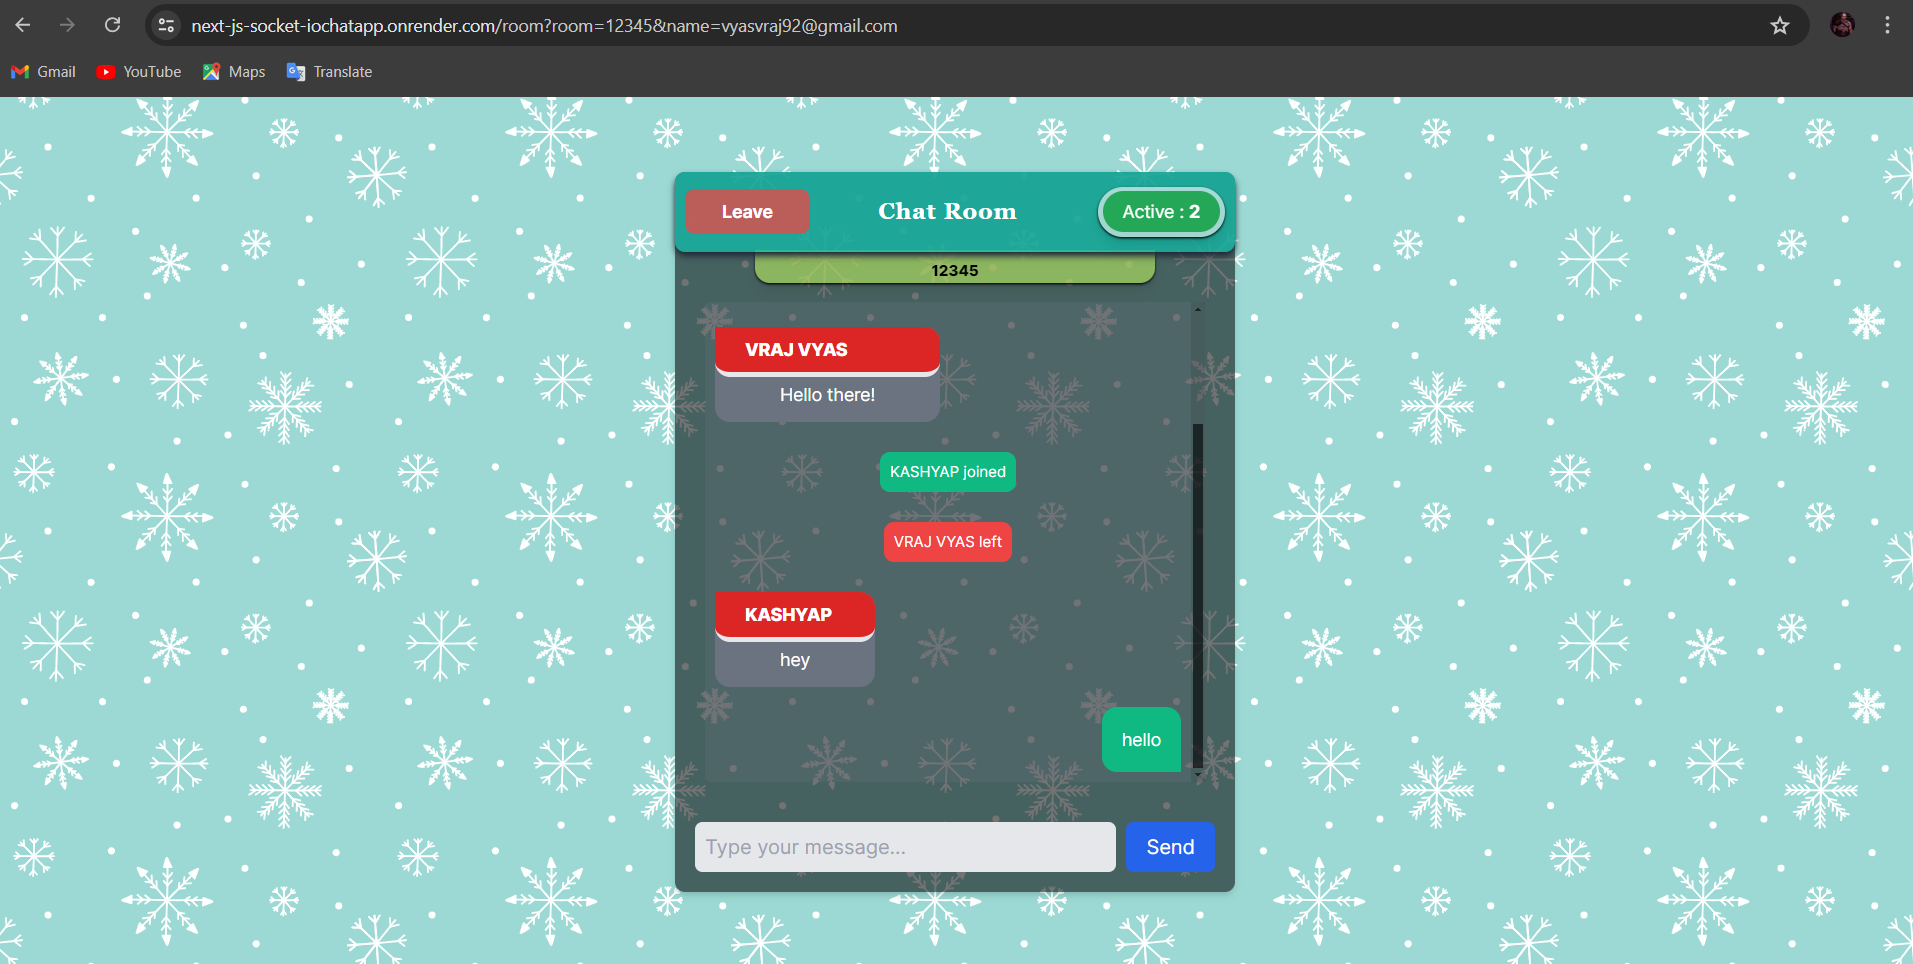
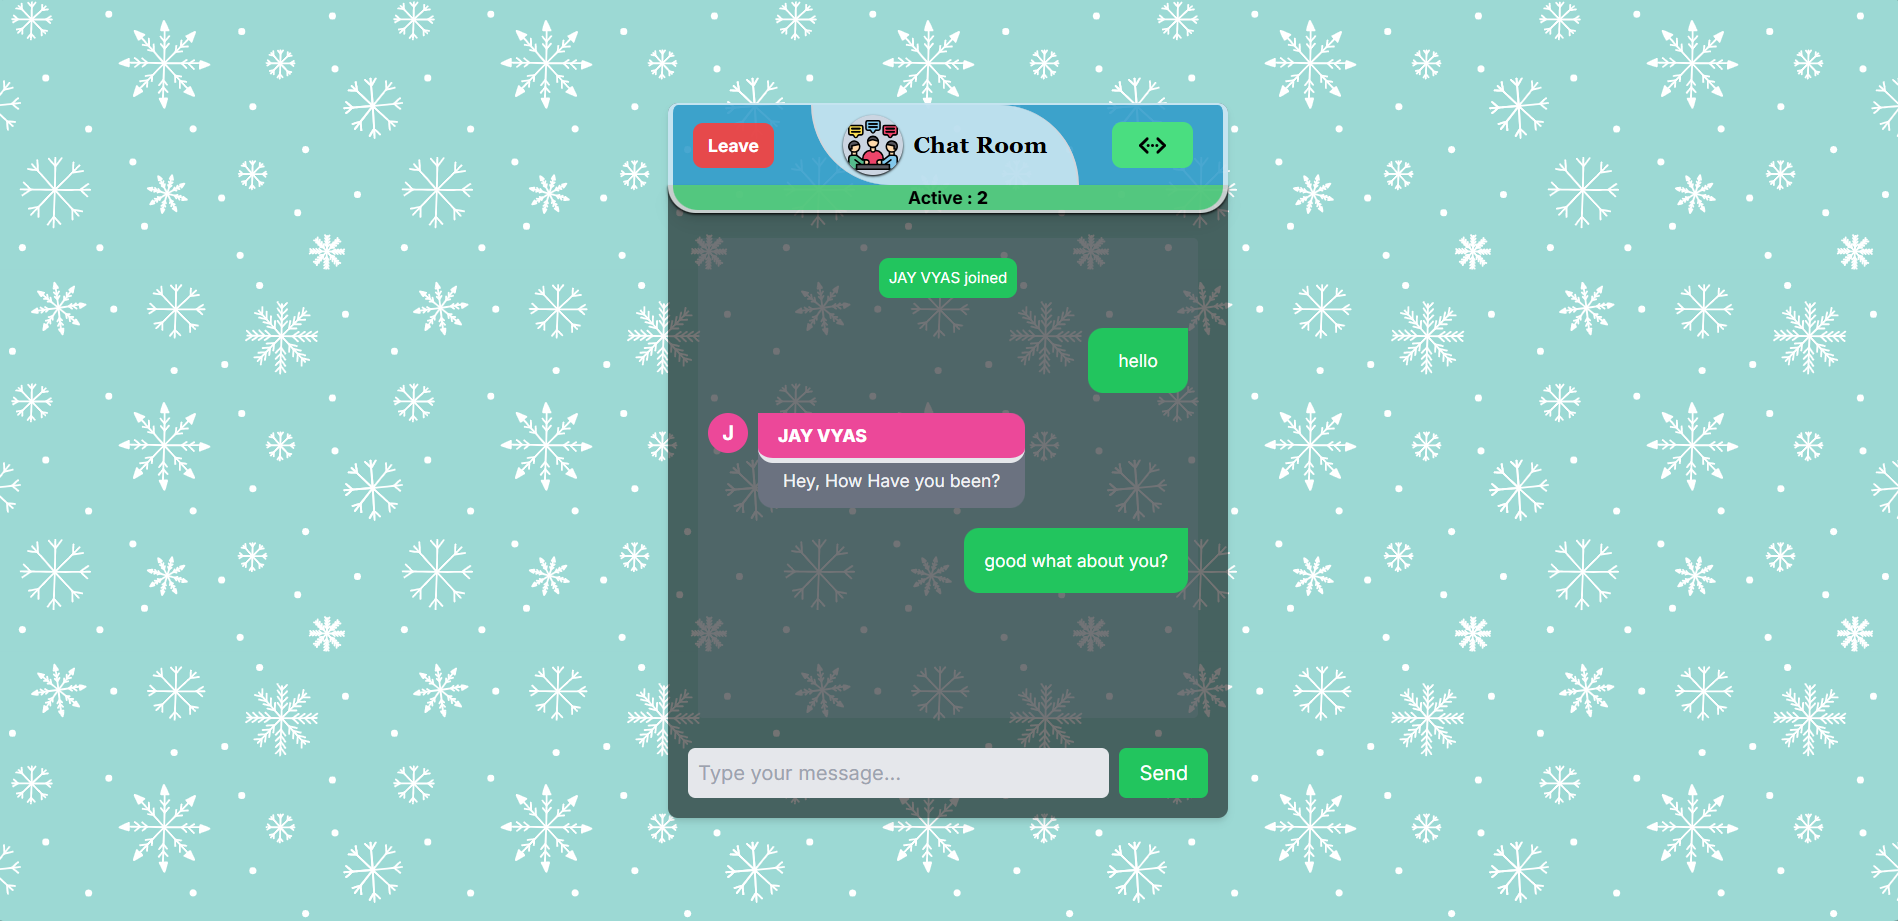
live demo images

diff --git a/src/app/room/page.tsx b/src/app/room/page.tsx
@@ -241,52 +241,55 @@ className="bg-red-500 border-4 border-white border-opacity-100 hover:transition-
               border-radius: 10px;
             }
           `}</style> */}
-                    {messages.map((msg, index) => {
-                        if (userName === msg.name && roomName === msg.room) {
-                            return (
-                                <div key={index} className="p-2  flex justify-end gap-2 items-center w-full">
-                                    <div className="bg-green-500 text-sm min-w-20 p-4 flex flex-col justify-center items-center rounded-xl rounded-tr-none max-w-14">
-                                        <span>{msg.message}</span>
-                                    </div>
-                                </div>
-                            );
-                        } else if (msg.name === "SystemJoin" && roomName === msg.room) {
-                            return (
-                                <div
-                                    key={index}
-                                    className="p-2 my-2  flex justify-center items-center w-full"
-                                >
-                                    <div className="bg-green-500 p-2 text-xs flex flex-col justify-center items-center rounded-lg min-w-fit max-w-14">
-                                        <span>{msg.message}</span>
-                                    </div>
-                                </div>
-                            );
-                        } else if (msg.name === "SystemLeft" && roomName === msg.room) {
-                            return (
-                                <div
-                                    key={index}
-                                    className="p-2 my-2  flex justify-center items-center w-full"
-                                >
-                                    <div className="bg-red-500 p-2 text-xs flex flex-col justify-center items-center rounded-lg min-w-fit max-w-14">
-                                        <span>{msg.message}</span>
-                                    </div>
-                                </div>
-                            );
-                        } else if (roomName === msg.room) {
-                            return (
-                                <div key={index} className="p-2 gap-2 flex justify-start items-start w-full">
-                                    <div className={`w-8 h-8 rounded-full ${bg_color} flex items-center justify-center text-white font-bold`}>{msg.name.charAt(0)}</div>
-                                    <div className="bg-gray-500 flex flex-col justify-start items-start rounded-xl rounded-tl-none min-w-fit max-w-14">
+                {messages.map((msg, index) => {
+    if (userName === msg.name && roomName === msg.room) {
+        return (
+            <div key={index} className="p-2 flex justify-end gap-2 items-center h-fit w-full">
+                <div className="bg-green-500 text-sm min-w-20 p-4 flex flex-col justify-center items-center rounded-xl rounded-tr-none break-words max-w-64">
+                    <span className="break-words overflow-wrap break-word word-break break-all">{msg.message}</span>
+                </div>
+            </div>
+        );
+    } else if (msg.name === "SystemJoin" && roomName === msg.room) {
+        return (
+            <div key={index} className="p-2 my-2 flex justify-center items-center w-full">
+                <div className="bg-green-500 p-2 text-xs flex flex-col justify-center items-center rounded-lg min-w-fit max-w-14">
+                    <span className="break-words overflow-wrap break-word word-break break-all">{msg.message}</span>
+                </div>
+            </div>
+        );
+    } else if (msg.name === "SystemLeft" && roomName === msg.room) {
+        return (
+            <div key={index} className="p-2 my-2 flex justify-center items-center w-full">
+                <div className="bg-red-500 p-2 text-xs flex flex-col justify-center items-center rounded-lg min-w-fit max-w-14">
+                    <span className="break-words overflow-wrap break-word word-break break-all">{msg.message}</span>
+                </div>
+            </div>
+        );
+    } else if (roomName === msg.room) {
+        return (
+            <div
+                key={index}
+                className="p-2 gap-2 flex flex-row justify-start min-w-[60px] max-w-[85%] items-start"
+            >
+                <div className={`w-8 h-8 rounded-full ${bg_color} flex items-center justify-center text-white font-bold`}>
+                    {msg.name.charAt(0)}
+                </div>
+                <div className="bg-gray-500 h-fit flex flex-col justify-start items-start rounded-xl rounded-tl-none min-w-[130px] max-w-full sm:max-w-[85%]">
+                    <span
+                        className={`w-full text-sm px-4 p-2 rounded-xl ${bg_color} rounded-tl-none border-b-4 font-extrabold break-words overflow-wrap break-word word-break break-all`}
+                    >
+                        {msg.name.toUpperCase()}
+                    </span>
+                    <span className="p-1 text-sm px-3 md:px-4 lg:px-5 my-2 mt-0 text-gray-100 break-words overflow-wrap break-word word-break break-all">
+                        {msg.message}
+                    </span>
+                </div>
+            </div>
+        );
+    }
+})}
 
-                                        <span className={`w-full text-sm pl-6 p-2 rounded-xl ${bg_color} rounded-tl-none border-b-4 font-extrabold`}>
-                                            {msg.name.toUpperCase()}
-                                        </span>
-                                        <span className="p-1 text-sm px-11 m-2 mt-0 border-gray-500">{msg.message}</span>
-                                    </div>
-                                </div>
-                            );
-                        }
-                    })}
                 </div>
                 <div className="flex p-4 items-center">
                     <input
